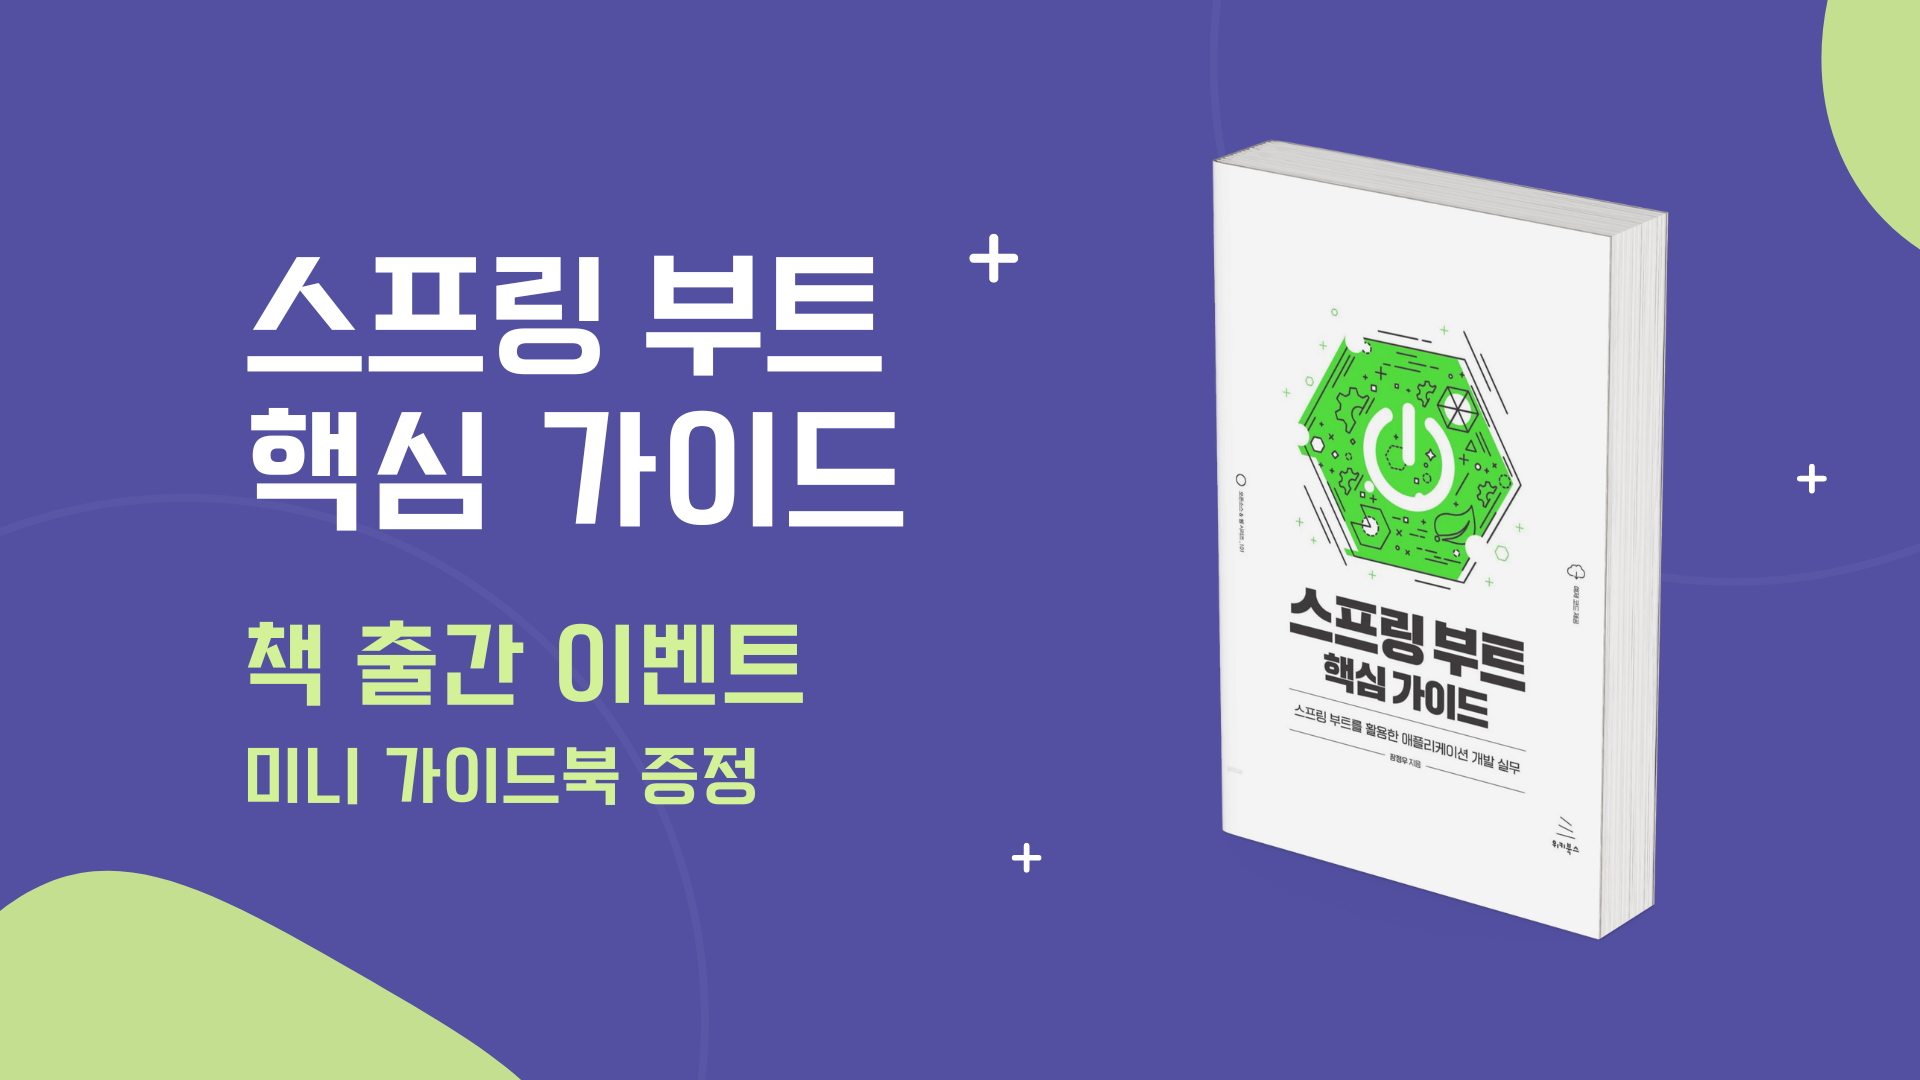
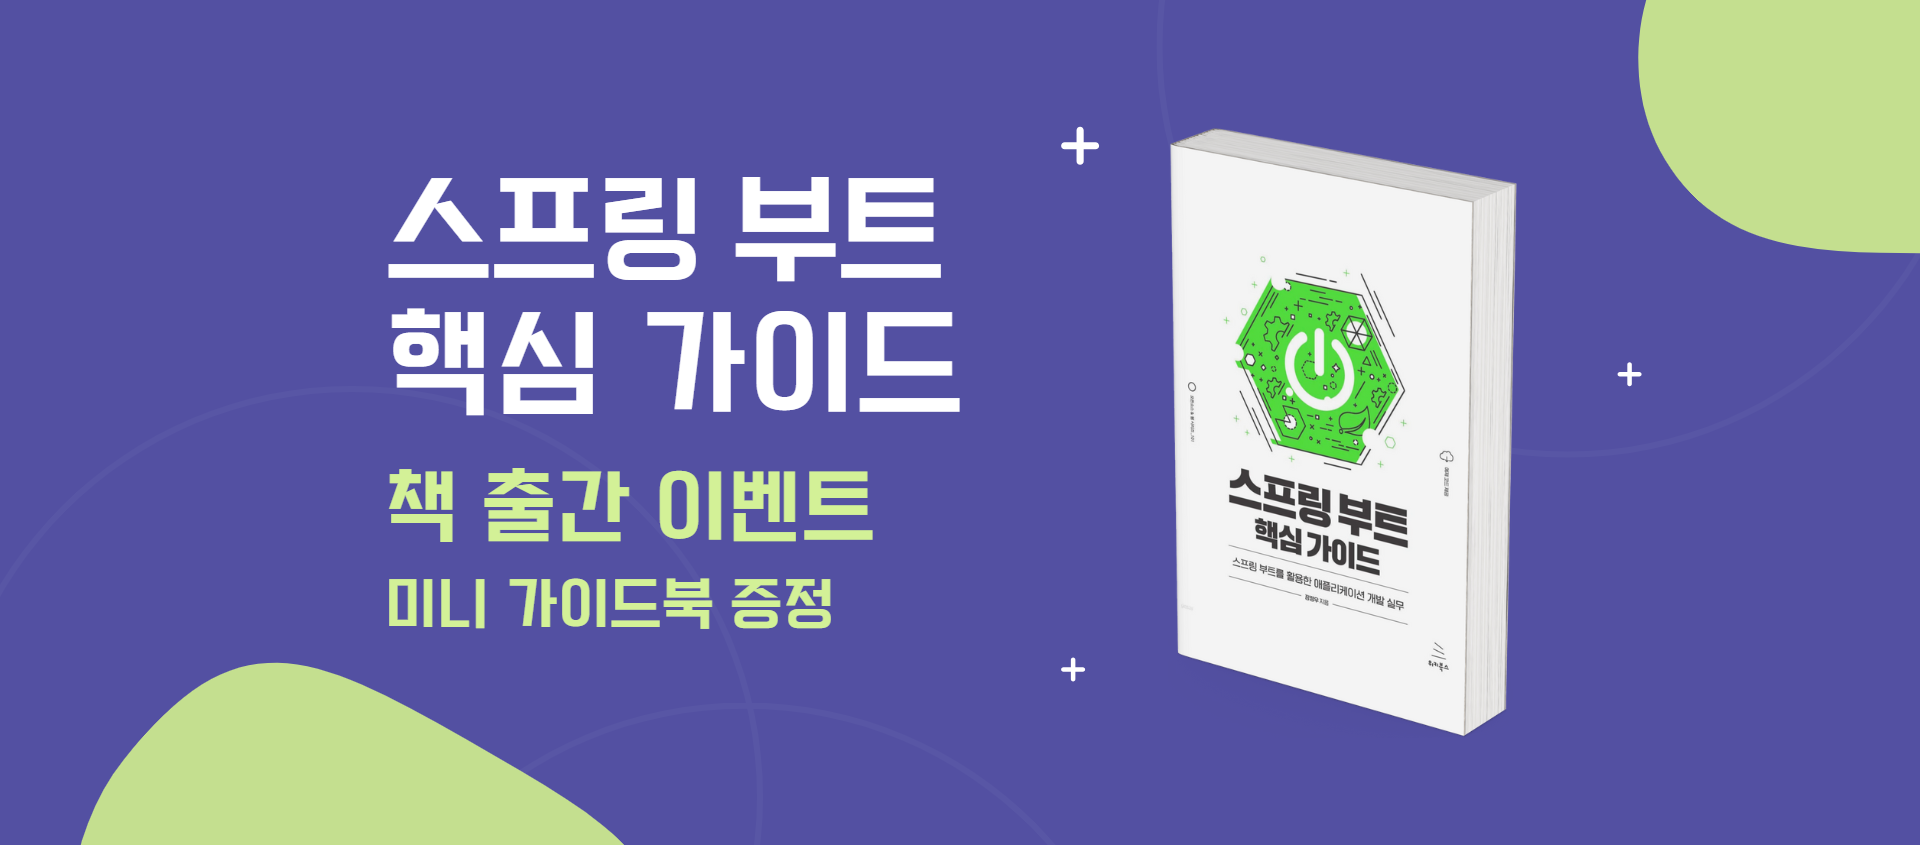
feat:메인화면 배너 슬라이드 구현

diff --git a/src/views/src/components/home/BannerSlider.js b/src/views/src/components/home/BannerSlider.js
@@ -1,0 +1,36 @@
+import React, { useState, useEffect } from 'react';
+import Event from '../../resources/home/event.png';
+import Event2 from '../../resources/home/event2.png';
+import Event3 from '../../resources/home/event3.png';
+import Event4 from '../../resources/home/event4.png';
+import './BannerSlider.css';
+
+const BannerSlider = () => {
+    const [currentSlide, setCurrentSlide] = useState(0);
+    const banners = [ Event, Event2, Event3, Event4];
+
+    useEffect(() => {
+        const timer = setInterval(() => {
+            setCurrentSlide((prevSlide) => (prevSlide + 1) % banners.length);
+        }, 3000);
+
+        return () => {
+            clearInterval(timer);
+        };
+    }, []);
+
+    return (
+        <div className="banner-slider">
+            {banners.map((banner, index) => (
+                <img
+                    key={index}
+                    src={banner}
+                    alt={`Banner ${index + 1}`}
+                    className={index === currentSlide ? 'active' : ''}
+                />
+            ))}
+        </div>
+    );
+};
+
+export default BannerSlider;

diff --git a/src/views/src/routes/Home.js b/src/views/src/routes/Home.js
@@ -4,6 +4,7 @@ import Categories from "../components/home/Categories";
 import Event from "../resources/home/event.png";
 import Books from "../components/home/Books";
 import Footer from "../components/home/Footer";
+import BannerSlider from "../components/home/BannerSlider";
 import './Home.css';
 
 function Home() {
@@ -21,7 +22,7 @@ function Home() {
                 />
             </div>
             <div>
-                <img className="eventImg" src={Event} alt="Event" />
+                <BannerSlider />
             </div>
             <div>
                 <Books />

diff --git a/src/views/src/components/home/BannerSlider.css b/src/views/src/components/home/BannerSlider.css
@@ -1,0 +1,20 @@
+.banner-slider {
+    position: relative;
+    width: 100%;
+    height: 480px;
+    overflow: hidden;
+}
+
+.banner-slider img {
+    position: absolute;
+    top: 0;
+    left: 0;
+    width: 100%;
+    height: 100%;
+    opacity: 0;
+    transition: opacity 0.5s ease-in-out;
+}
+
+.banner-slider img.active {
+    opacity: 1;
+}

diff --git a/src/views/src/routes/Home.css b/src/views/src/routes/Home.css
@@ -3,8 +3,10 @@
     height: 480px;
 }
 .container {
-    margin: 0 auto; 
+    margin: 0 auto;
     max-width: 1200px;
     padding: 0 20px;
+    margin-left: 155px;
+    margin-right: 155px;
   }
   
